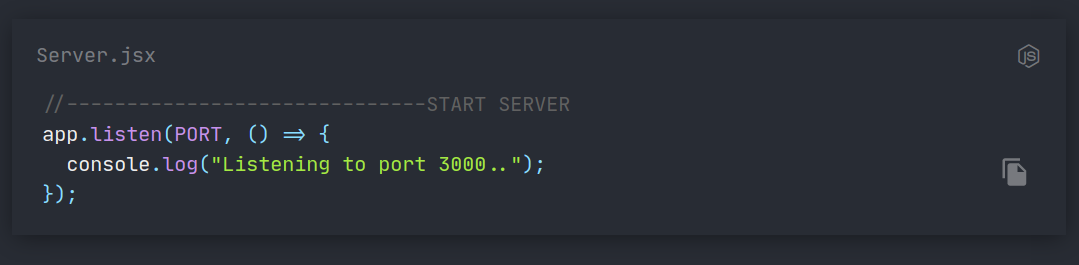
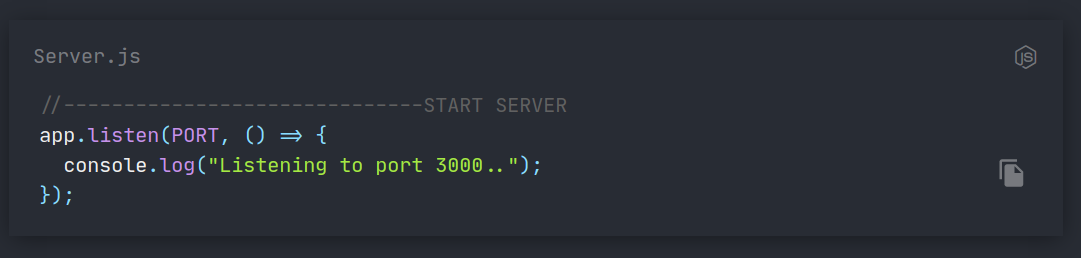
updated images

diff --git a/src/index.js b/src/index.js
@@ -6,9 +6,9 @@ import * as serviceWorker from './serviceWorker';
 import snippets from './snippets.json';
 
 ReactDOM.render(
-  <div id='app' className="app--light">
-    <Code language='javascript' light theme='material' icon shadow>
-      <Code.Header>Server.jsx</Code.Header>
+  <div id='app' className="app--dark">
+    <Code language='javascript' dark theme='material' icon shadow>
+      <Code.Header>Server.js</Code.Header>
       <Code.Body
         content={snippets[1]}
         copy

diff --git a/README.md b/README.md
@@ -11,6 +11,10 @@ React Code Space is a stylized code syntax highlighter for your documentation/ l
 
 Code is the base import. It will recieve the below compound components for formatting your code.
 
+<img src="https://github.com/DaltonHart/React-Code-Space/blob/master/assets/dark_basic.png?raw=true" alt="basic dark" width="500px">
+
+<img src="https://github.com/DaltonHart/React-Code-Space/blob/master/assets/light_basic.png?raw=true" alt="basic dark" width="500px">
+
 ```js
 import Code from 'react-code-space';
 
